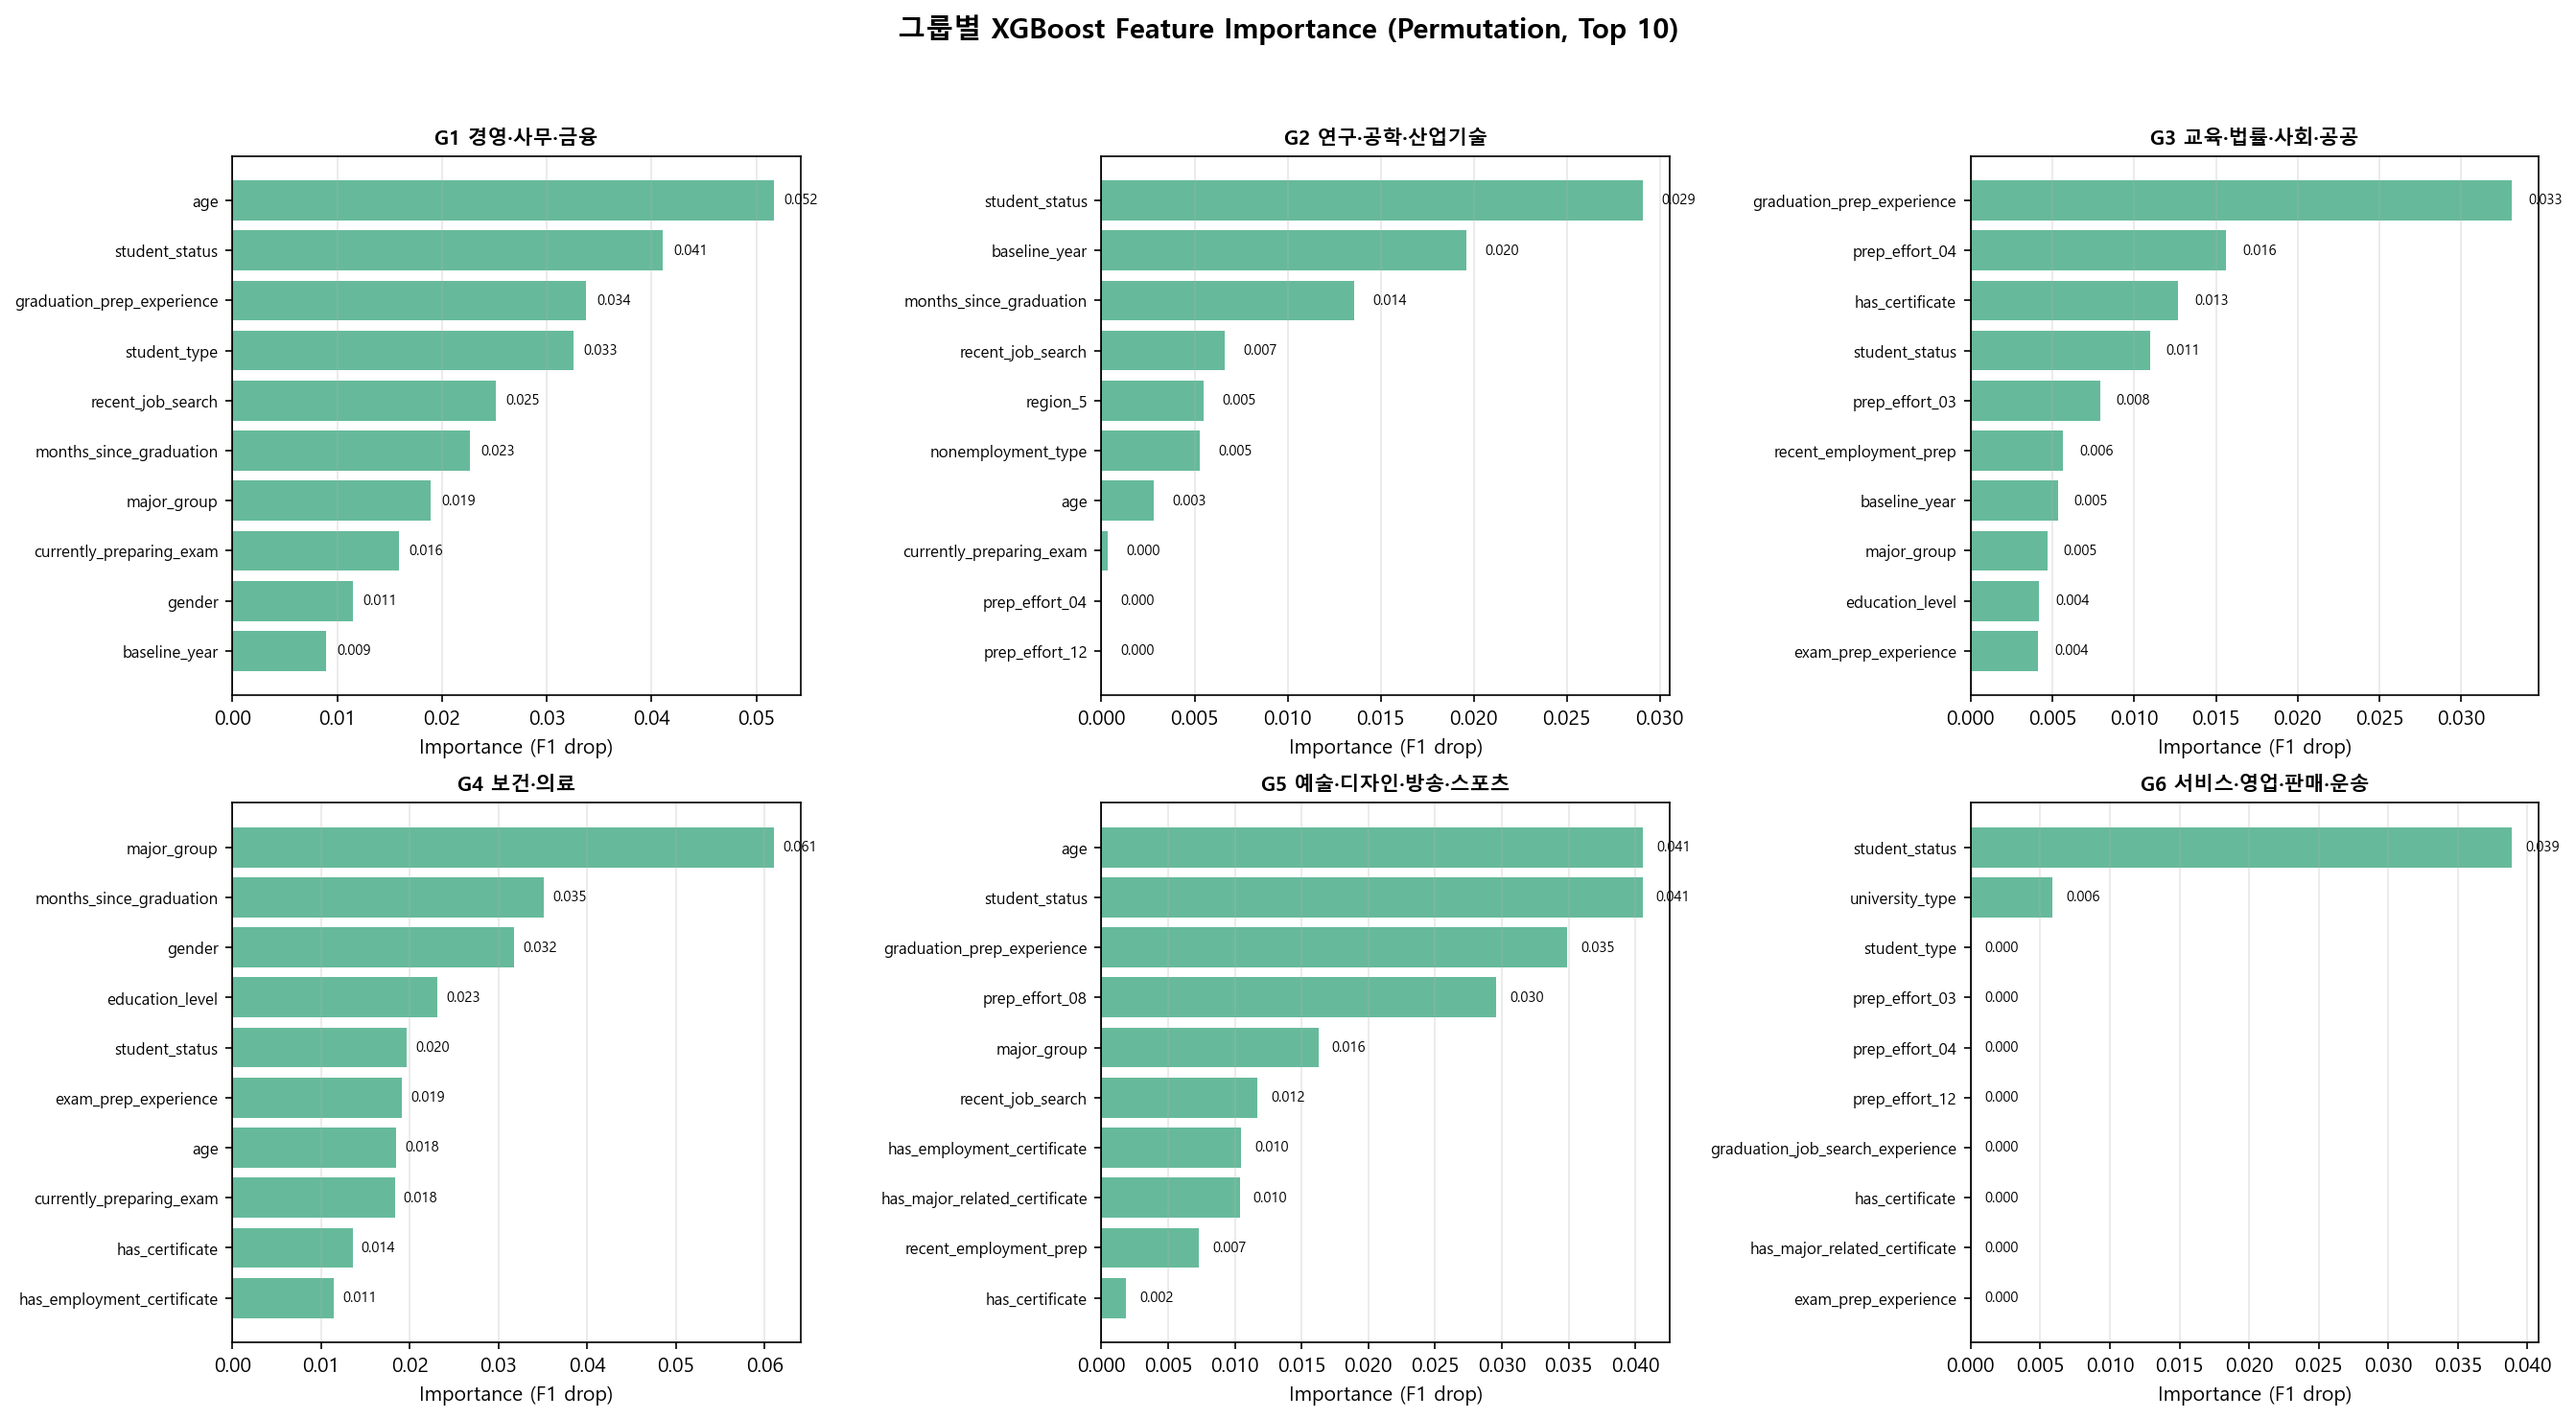
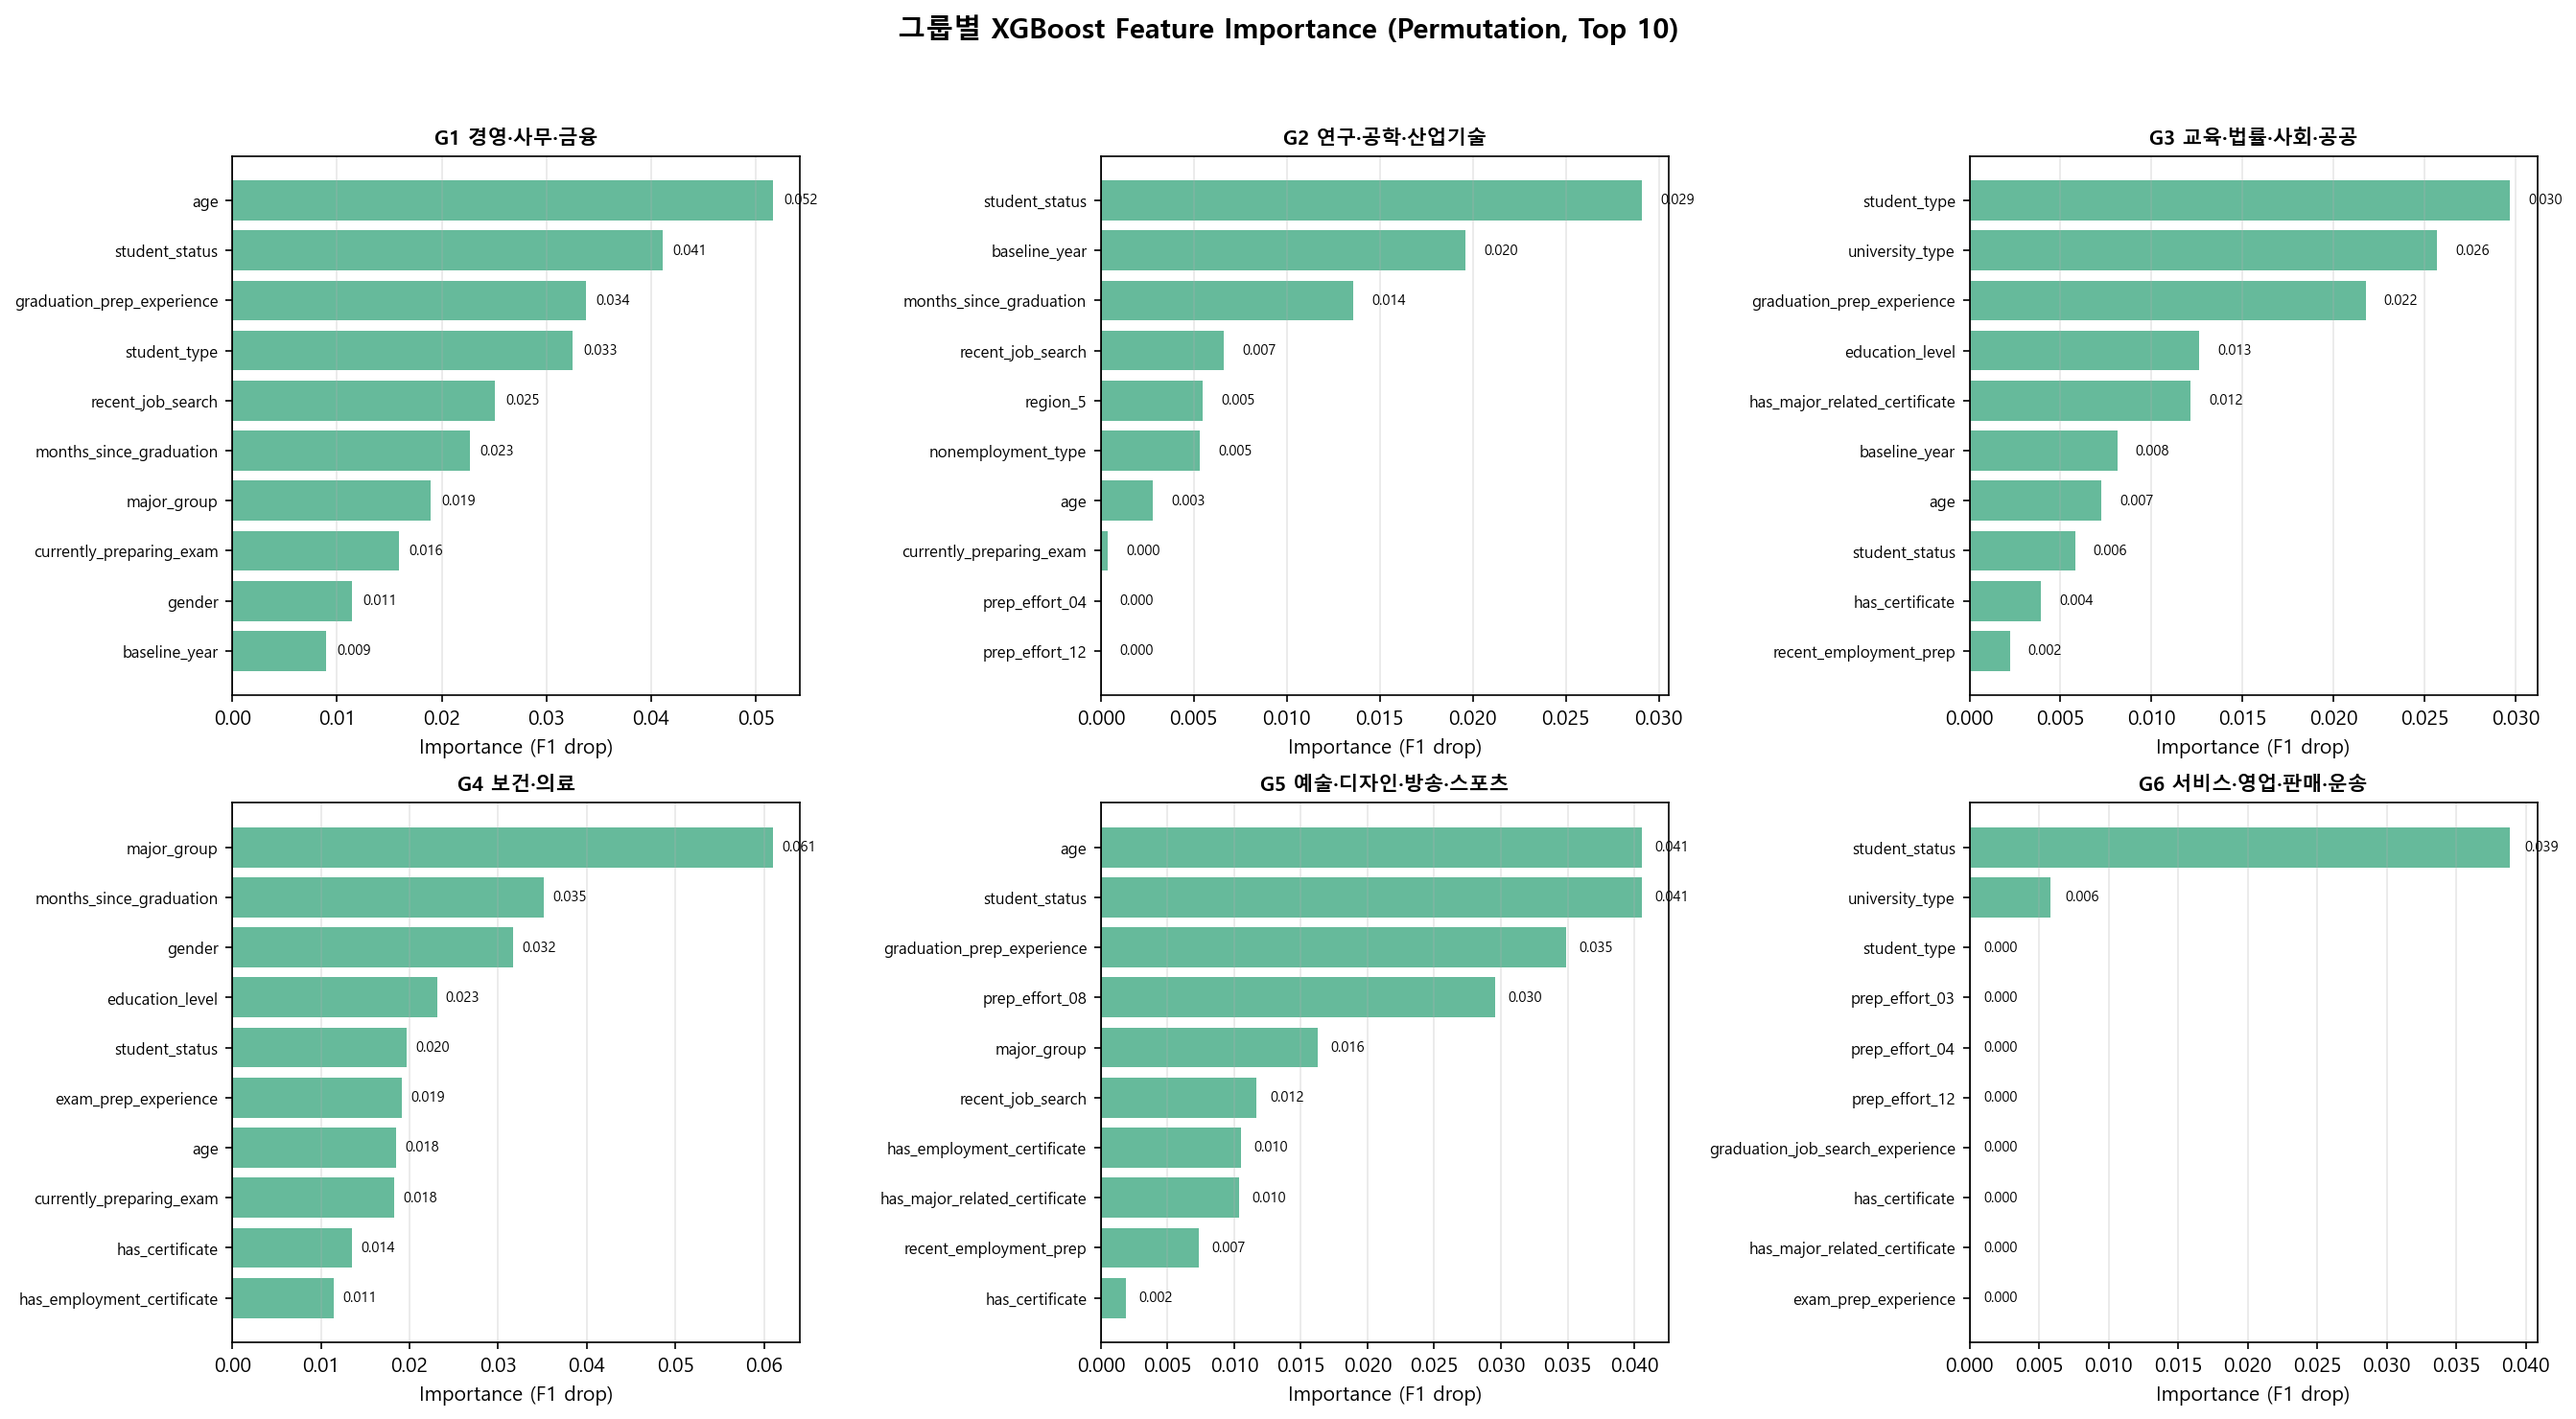
viz: group3_2 기준 결과 시각화 PNG 업데이트 (chart1~6, local_group 3종)

diff --git a/sandbox/cepil/run_charts.py b/sandbox/cepil/run_charts.py
@@ -19,7 +19,7 @@ OUT_DIR.mkdir(exist_ok=True)
 GROUPS = {
     'group1': '경영·사무·금융',
     'group2': '연구·공학·산업기술',
-    'group3': '교육·법률·사회·공공',
+    'group3_2': '교육·법률·사회·공공',
     'group4': '보건·의료',
     'group5': '예술·디자인·방송·스포츠',
     'group6': '서비스·영업·판매·운송',
@@ -392,9 +392,9 @@ ax3.legend(fontsize=8, framealpha=0.8)
 ax3.spines['left'].set_visible(False); ax3.spines['bottom'].set_color(C['hairline'])
 
 # (1,0~2) Feature Importance 하이라이트 3개 (G3 vs G4 vs G5)
-highlight = ['group3', 'group4', 'group5']
+highlight = ['group3_2', 'group4', 'group5']
 hi_titles = {
-    'group3': 'G3  교육·법률·사회·공공  [낮음]',
+    'group3_2': 'G3  교육·법률·사회·공공  [낮음]',
     'group4': 'G4  보건·의료  [양호]',
     'group5': 'G5  예술·디자인·방송·스포츠  [양호]',
 }

diff --git a/sandbox/cepil/visualize_local_group_performance.py b/sandbox/cepil/visualize_local_group_performance.py
@@ -33,11 +33,11 @@ MODELING_DIR = ROOT / "data/result/baseline_42features/modeling"
 OUT_DIR = Path(__file__).parent / "figures"
 OUT_DIR.mkdir(exist_ok=True)
 
-# ── 직군 정보 (cepil 제공 2026-08-23) ──────────────────────────────────────
+# ── 직군 정보 (cepil 제공 2026-08-23, group3→group3_2 수정 2026-08-23) ────
 GROUPS = {
     "group1": "경영·사무·금융",
     "group2": "연구·공학·산업기술",
-    "group3": "교육·법률·사회·공공",
+    "group3_2": "교육·법률·사회·공공",
     "group4": "보건·의료",
     "group5": "예술·디자인·방송·스포츠",
     "group6": "서비스·영업·판매·운송",

diff --git a/작업기록/Cepil/20260823-local_group_viz_group3_2.md b/작업기록/Cepil/20260823-local_group_viz_group3_2.md
@@ -1,0 +1,53 @@
+# 세션 로그 — 로컬 직군 시각화 group3_2 수정
+
+- **날짜**: 2026-08-23
+- **작업자**: Cepil
+- **AI**: Antigravity (Claude Sonnet 4.6 Thinking)
+
+---
+
+## ① 지침 (프롬프트 요지)
+
+> "로컬 직군 6개 결과 시각화를 하고싶어. 어제 sandbox/cepil/figures 여기에 있는거와 같이 png 파일로 결과 시각화했는데. 로컬 그룹 3이 문제가 있어서 그룹 3_2로 수정했어. 따라서 결과 시각화 png도 다시 만들어야해."
+
+---
+
+## ② AI가 한 일 (변경 파일 목록)
+
+### 수정 파일
+- `sandbox/cepil/visualize_local_group_performance.py`
+  - `GROUPS` 딕셔너리의 키 `"group3"` → `"group3_2"` 로 변경
+  - 데이터 경로 `stage_4_local_group3` → `stage_4_local_group3_2` 로 자동 반영됨
+  - 레이블 `"교육·법률·사회·공공"` 및 G3 번호는 그대로 유지
+
+### 재생성된 파일 (출력)
+- `sandbox/cepil/figures/local_group_performance.png`
+- `sandbox/cepil/figures/local_group_feature_importance.png`
+- `sandbox/cepil/figures/local_group_confusion_matrix.png`
+
+### 사용된 데이터 소스 (group3_2)
+- `data/result/baseline_42features/modeling/stage_4_local_group3_2/final_test_summary.csv`
+- `data/result/baseline_42features/modeling/stage_4_local_group3_2/final_test_bootstrap_ci.csv`
+- `data/result/baseline_42features/modeling/stage_4_local_group3_2/final_test_confusion_matrices.json`
+- `data/result/baseline_42features/modeling/stage_4_local_group3_2/xgboost_final_permutation_importance.csv`
+
+---
+
+## ③ 검증
+
+- 스크립트 실행 종료 코드 0 (에러 없음)
+- 3개 PNG 파일 모두 정상 저장 확인
+
+---
+
+## ④ 남은 것 / 막힌 것
+
+- 없음
+
+---
+
+## 🖊 작성 출처
+
+| 구간 | 내용을 정한 주체 | 사람 검토 |
+|---|---|---|
+| 전체 | AI 자동 세션 로그 | ⬜ 미검토 |
